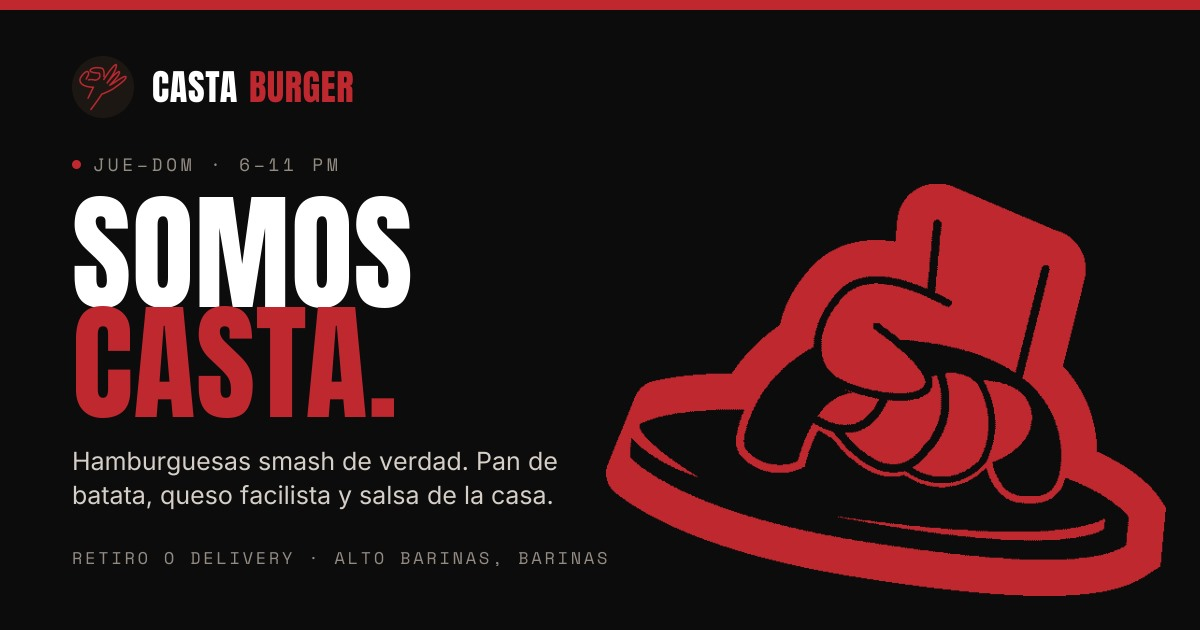
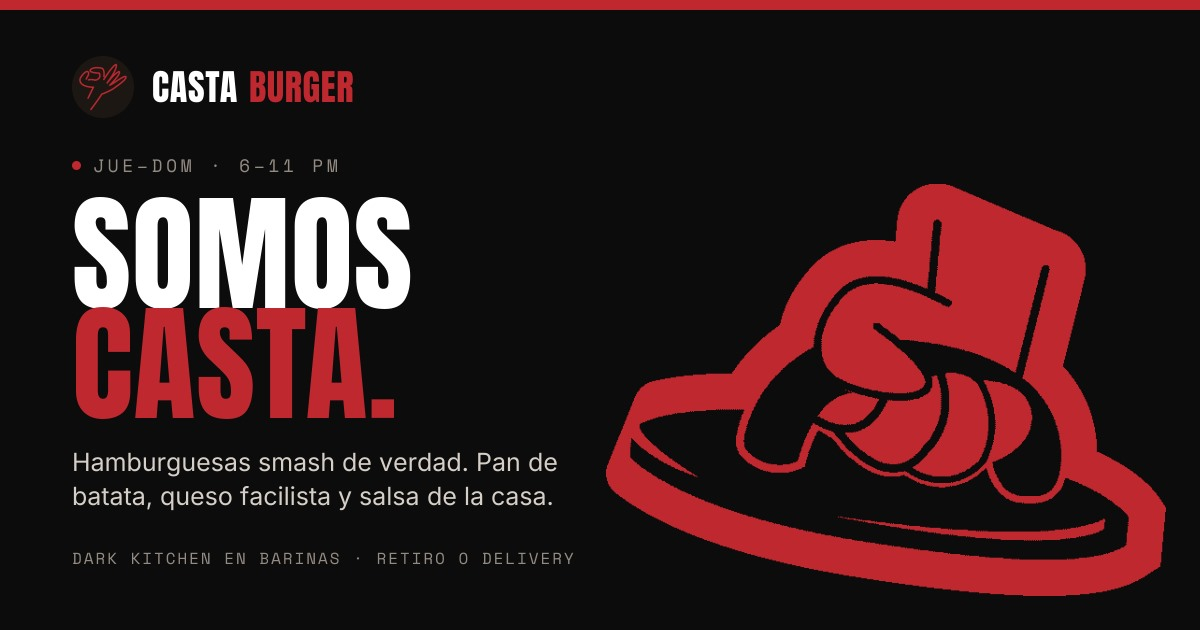
El negocio se presenta como Dark Kitchen en Barinas
Pedido del cliente: donde decia "Alto Barinas, Barinas" ahora dice "Dark
Kitchen en Barinas". Cambia en el hero (mismo mono, mismo gris, mismo
espaciado: es el mismo texto, otro contenido), en el pie, en el titulo de la
pestana y en la imagen que se ve al compartir el link.

El pie suma "Como llegar": un enlace a Google Maps con chincheta y la linea
"Presiona aca y Google Maps te guia". Las dos lineas van dentro del mismo
enlace para que se pueda tocar toda la fila, no dos renglones de 20 px.

El enlace sale de BUSINESS.mapa y todavia esta vacio, asi que por ahora no se
muestra: falta que el cliente pase la ubicacion. Un boton que no lleva a
ningun lado es peor que ninguno.

diff --git a/src/components/Footer.tsx b/src/components/Footer.tsx
@@ -1,5 +1,5 @@
 import { BUSINESS } from "@/lib/config";
-import { InstagramIcon, WhatsAppIcon } from "./icons";
+import { InstagramIcon, MapPinIcon, WhatsAppIcon } from "./icons";
 
 function Block({
   titulo,
@@ -65,8 +65,27 @@ export function Footer() {
         </Block>
 
         <Block titulo="Dónde">
-          <p>{BUSINESS.zona}</p>
-          <p>{BUSINESS.ciudad}</p>
+          <p>{BUSINESS.formato}</p>
+          {/* Un solo enlace con las dos líneas adentro: así el área para tocar
+              es toda la fila, no dos renglones de 20 px. */}
+          {BUSINESS.mapa && (
+            <a
+              href={BUSINESS.mapa}
+              target="_blank"
+              rel="noreferrer"
+              className="group flex flex-col gap-0.5 transition-colors hover:text-casta"
+            >
+              <span className="flex items-center gap-2">
+                <span className="text-smoke transition-colors group-hover:text-casta">
+                  <MapPinIcon className="size-4.5" />
+                </span>
+                Cómo llegar
+              </span>
+              <span className="text-xs text-smoke">
+                Presiona acá y Google Maps te guía.
+              </span>
+            </a>
+          )}
         </Block>
 
         <Block titulo="Escríbenos">

diff --git a/src/components/icons.tsx b/src/components/icons.tsx
@@ -52,6 +52,25 @@ export function InstagramIcon({ className }: { className?: string }) {
   );
 }
 
+/** Chincheta de mapa, para el "Cómo llegar" del pie. */
+export function MapPinIcon({ className }: { className?: string }) {
+  return (
+    <svg
+      className={className}
+      viewBox="0 0 24 24"
+      fill="none"
+      stroke="currentColor"
+      strokeWidth="1.8"
+      strokeLinecap="round"
+      strokeLinejoin="round"
+      aria-hidden
+    >
+      <path d="M12 21.2c4.3-4.1 6.5-7.3 6.5-9.9a6.5 6.5 0 1 0-13 0c0 2.6 2.2 5.8 6.5 9.9Z" />
+      <circle cx="12" cy="11" r="2.4" />
+    </svg>
+  );
+}
+
 export function CartIcon({ className }: { className?: string }) {
   return (
     <svg

diff --git a/src/lib/config.ts b/src/lib/config.ts
@@ -4,8 +4,19 @@
  */
 export const BUSINESS = {
   nombre: "Casta Burger",
-  zona: "Alto Barinas",
-  ciudad: "Barinas, Venezuela",
+  /**
+   * Cómo se presenta el negocio. No es un local con salón: es una cocina, se
+   * pide y se busca o se lleva. Va en el hero, en el pie y en la imagen que se
+   * ve al compartir el link (esa se regenera con `node scripts/og.mjs`).
+   */
+  formato: "Dark Kitchen en Barinas",
+  ciudad: "Barinas",
+  /**
+   * Enlace de Google Maps que guía hasta la cocina. Mientras esté vacío, el pie
+   * no muestra el "Cómo llegar" — mejor eso que un botón que no lleva a ningún
+   * lado.
+   */
+  mapa: "",
   instagram: "puracasta_",
   /** Número en formato wa.me (sin +, sin espacios). */
   whatsapp: process.env.NEXT_PUBLIC_WHATSAPP_NUMBER ?? "[phone redacted]",

diff --git a/src/app/layout.tsx b/src/app/layout.tsx
@@ -26,7 +26,7 @@ const spaceMono = Space_Mono({
 const SITIO =
   process.env.NEXT_PUBLIC_SITE_URL || "https://casta-burger.vercel.app";
 
-const TITULO = `${BUSINESS.nombre} — Hamburguesas smash en ${BUSINESS.zona}`;
+const TITULO = `${BUSINESS.nombre} — Hamburguesas smash en ${BUSINESS.ciudad}`;
 const DESCRIPCION =
   "Hamburguesas smash de verdad. Pan de batata, queso facilista y salsa de la casa. Pide por acá y recógela — o te la llevamos.";
 
@@ -52,7 +52,7 @@ export const metadata: Metadata = {
         url: "/og.jpg",
         width: 1200,
         height: 630,
-        alt: `${BUSINESS.nombre} — hamburguesas smash en ${BUSINESS.zona}`,
+        alt: `${BUSINESS.nombre} — ${BUSINESS.formato}`,
       },
     ],
   },

diff --git a/src/components/Hero.tsx b/src/components/Hero.tsx
@@ -26,9 +26,7 @@ export function Hero({ estado }: { estado: EstadoNegocio }) {
           {/* Informativo, no de estado: va siempre en rojo. El sello que
               cambia a gris es el del top bar. */}
           <Stamp punto>{HORARIO.etiqueta}</Stamp>
-          <span>
-            {BUSINESS.zona}, {BUSINESS.ciudad.split(",")[0]}
-          </span>
+          <span>{BUSINESS.formato}</span>
         </div>
 
         <h1 className="font-display text-[clamp(52px,15vw,116px)] uppercase leading-[0.86] tracking-[0.005em]">

diff --git a/src/app/manifest.ts b/src/app/manifest.ts
@@ -11,7 +11,7 @@ export default function manifest(): MetadataRoute.Manifest {
     name: `${BUSINESS.nombre} — Hamburguesas smash`,
     short_name: BUSINESS.nombre,
     description:
-      "Hamburguesas smash de verdad en Alto Barinas. Pedí por acá y recogé, o te la llevamos.",
+      "Hamburguesas smash de verdad en Barinas. Pide por acá y recógela, o te la llevamos.",
     start_url: "/",
     display: "standalone",
     background_color: "#0C0C0C",